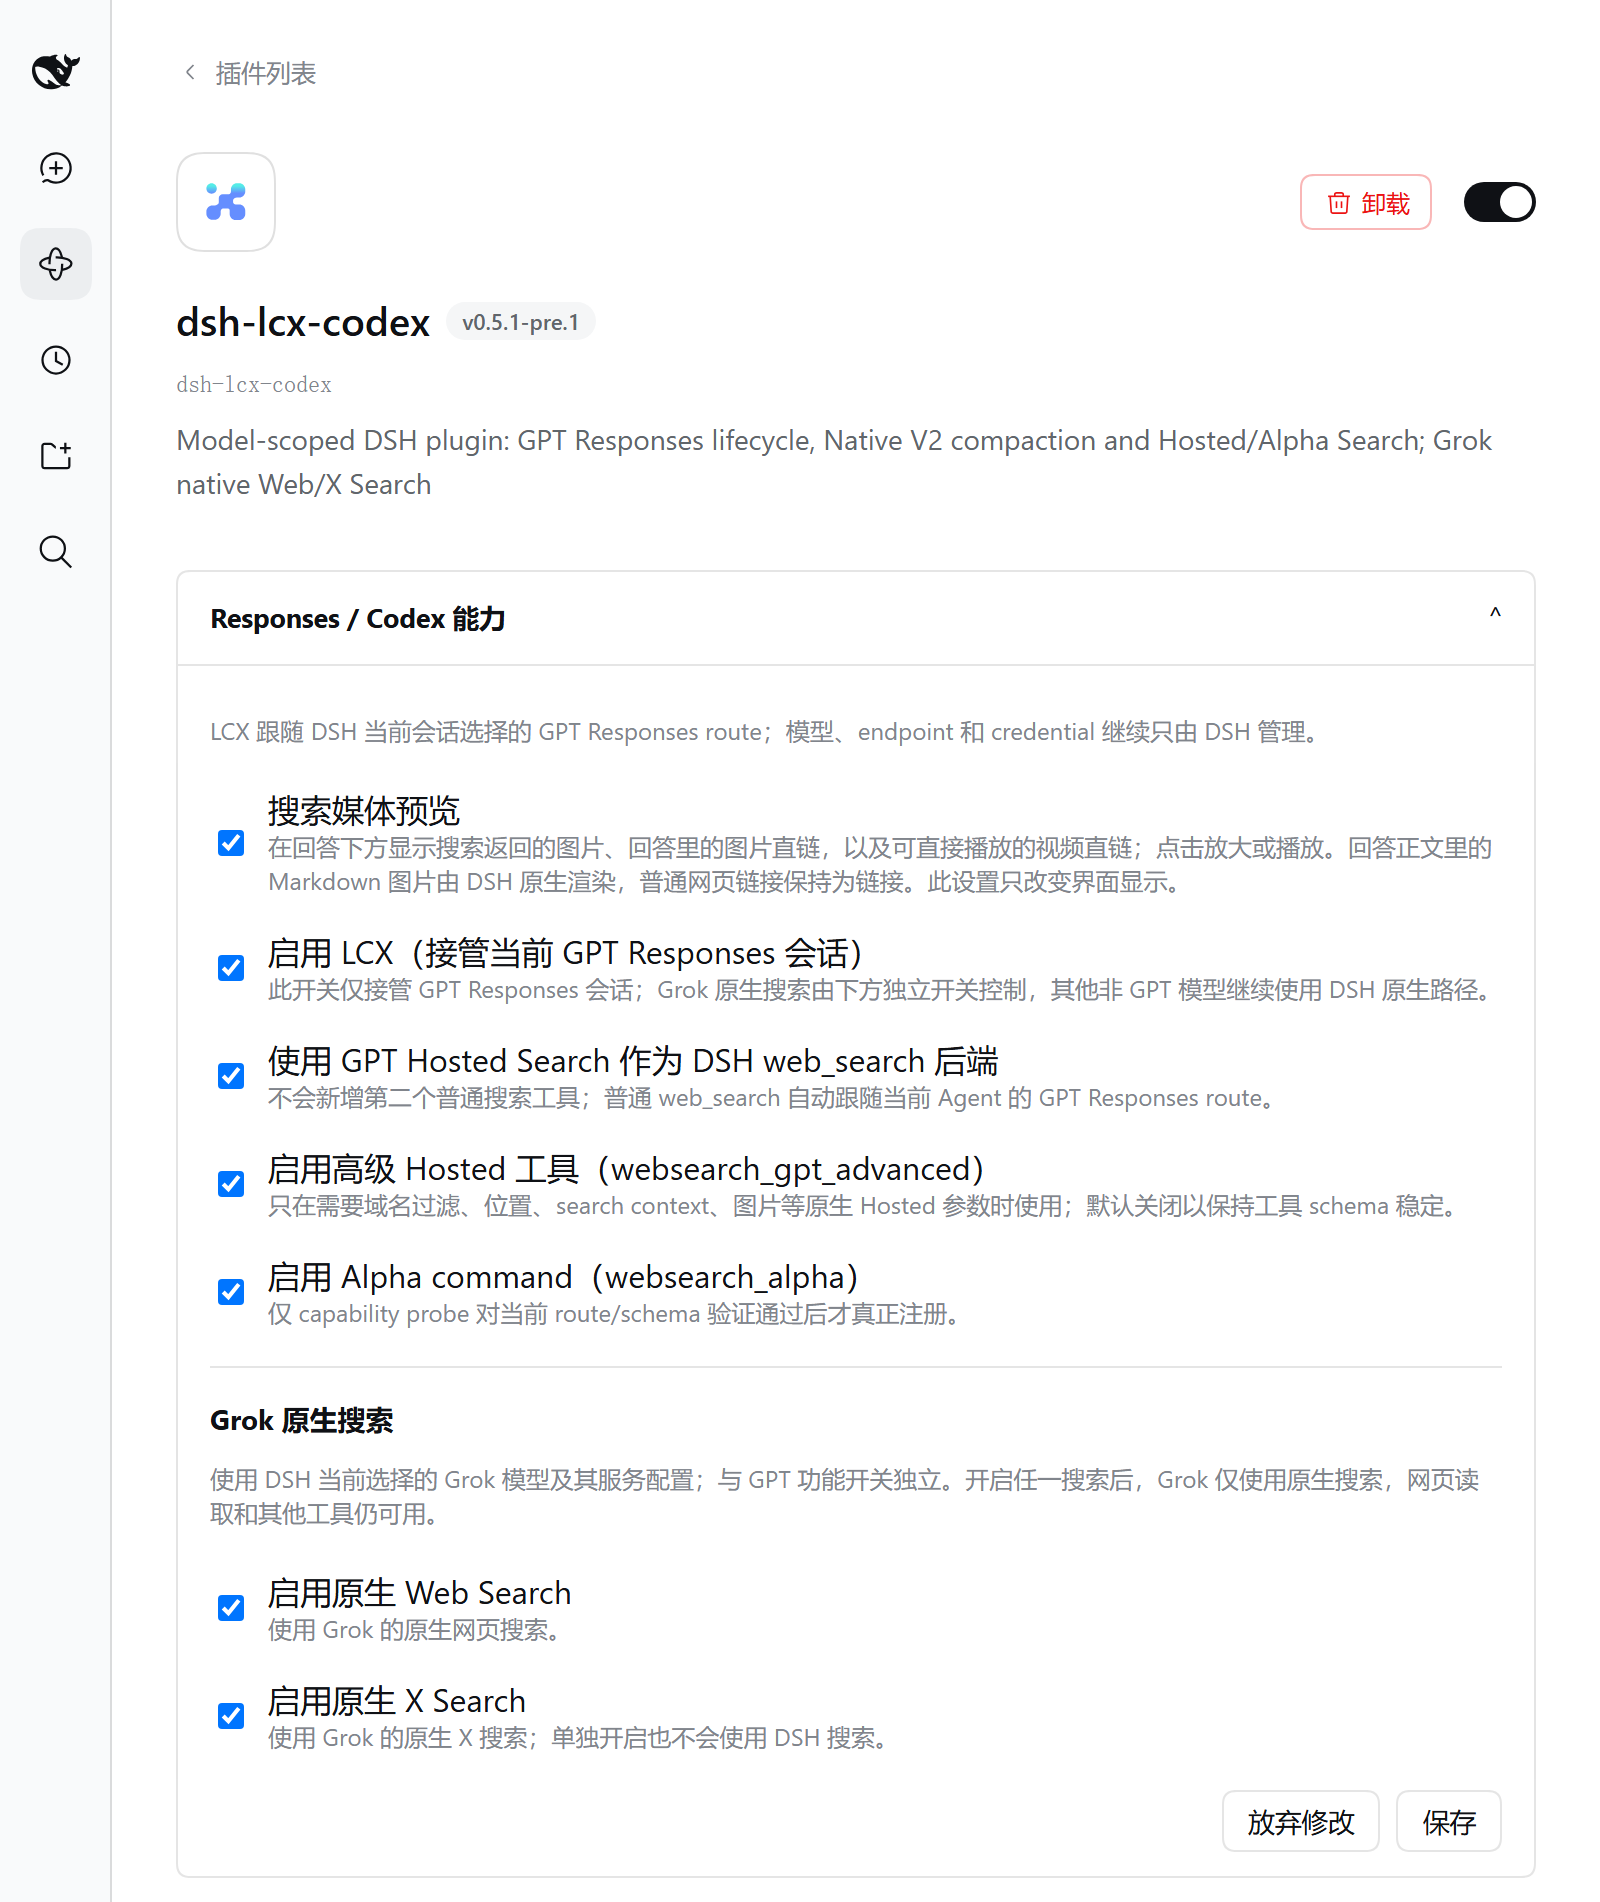
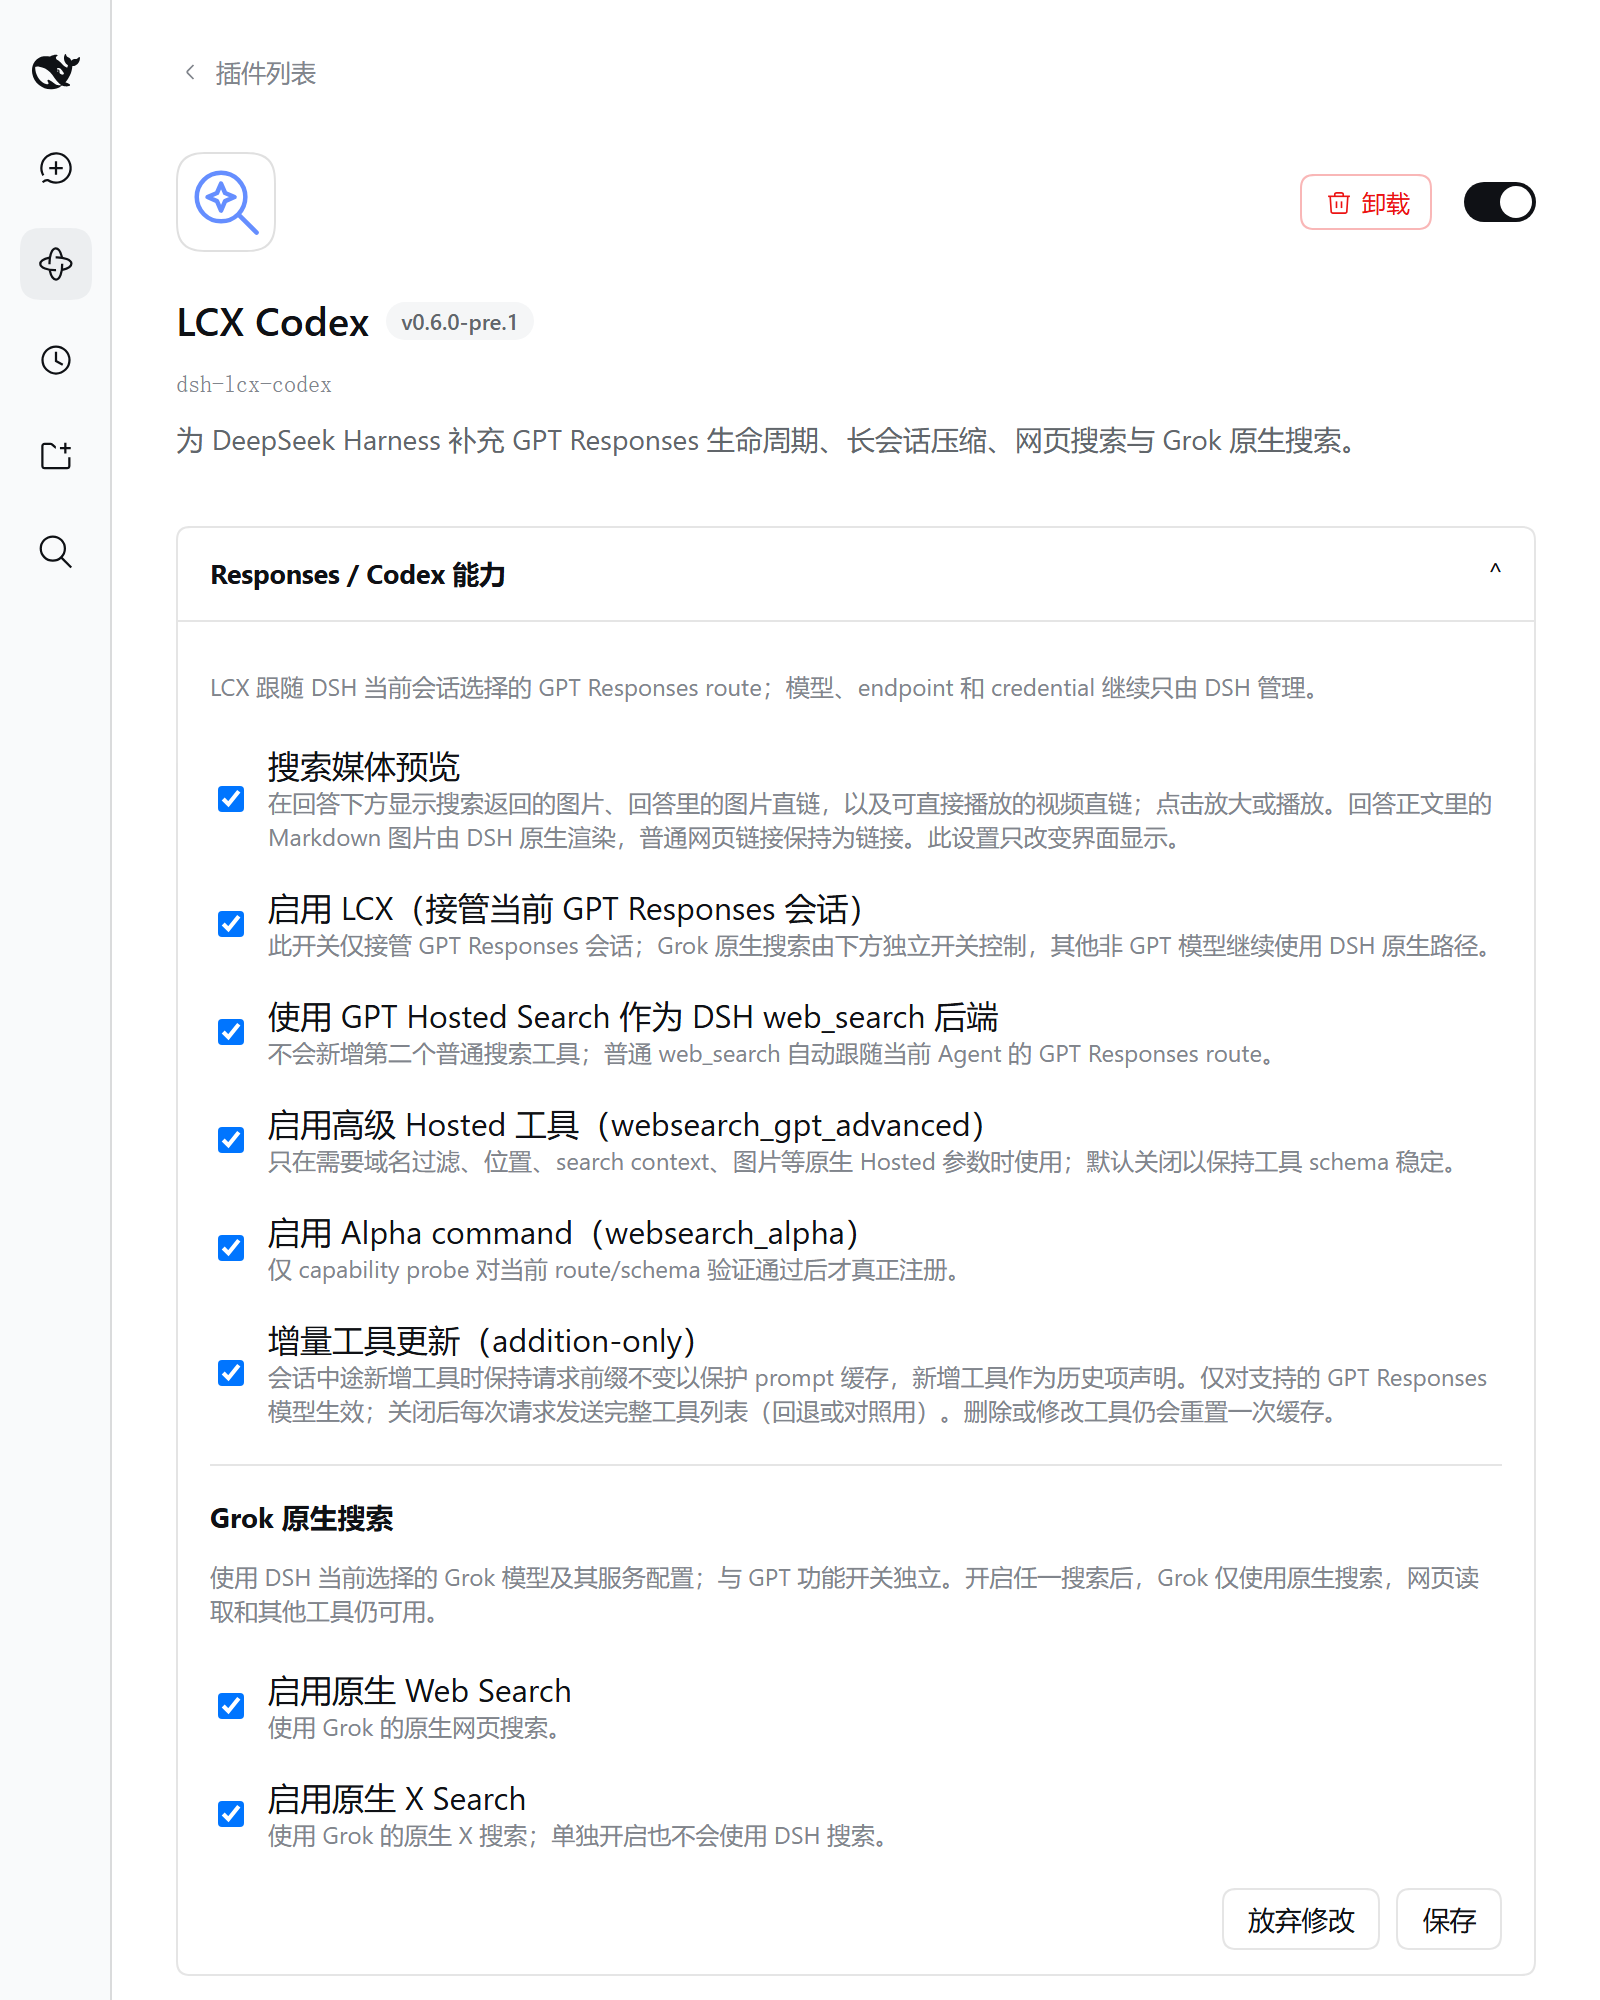
Refresh settings-card screenshot and file counts for 0.6.0-pre.1

diff --git a/CHANGELOG.md b/CHANGELOG.md
@@ -8,7 +8,7 @@ Prerelease for DSH `0.2.1` and later. Same DSH baseline as `0.5.1-pre.1` (exact 
 - Removing a tool or redefining one under the same name follows the host semantics and is never an error: a removal shrinks the anchored list once and a redefinition starts a new declaration series (the complete current list), each costing one cache reset, after which the surface is stable again. LCX adds a self check on top of the host projection and falls back to the previous full-tool-list request when the DSH tool history is missing, the model information is unreadable, the route is not addition-only or in-history, the route compat explicitly opts out of `additional_tools` and `tool_search`, or deferred tools and retained additions disagree. A route compat that says nothing is accepted, because DSH declares addition-only only for models that support the declaration items; this matters for models outside LCX's frozen Pi 0.86 catalog such as `gpt-6-sol`, where the first live A/B showed the full list being sent. A fallback although the host declared addition-only is logged once per session with a fixed reason. Custom-named routes (which DSH never declares addition-only), Grok routes, portable replay (fork and route migration) and native compaction checkpoints keep their previous handling; compaction requests may carry `additional_tools` and the checkpoint retains none, so the new series starts from the full list.
 - New settings-card switch "Incremental tool updates (addition-only)" (`incrementalToolUpdates`, on by default, also for settings documents that predate it). Turning it off sends the complete current tool list on every request, as in `0.5.1-pre.1`; use it to roll back or to compare cache behaviour. The wire shapes and the cache comparison are reproducible with `npm run probe:tool-updates` (opt-in, spends real requests, never part of CI; `--dry-run` prints the shapes without a key).
 - Count and show searches made from code: DSH 0.2.1 records a tool a `run_code` program (programmatic tool calling) calls as `tool/ptc-dispatch` carrying the nested tool's `name` and presentation `meta`, never as `tool/result`. LCX only read `tool/result`, so a `web_search` / `websearch_gpt_advanced` call made from inside `run_code` was not counted: its Hosted usage never reached the session search usage (`lcxSearchUsage` projection) or the per-turn usage pill, and its images never reached the search-media rail. All three now read the nested settlement as well. A nested call names its own tool, so it needs no pending entry; the settlement carries no turn, so the Client resolves it through the root `run_code` call it names. Usage is counted once per settled call (including a nested search that failed after it was billed), only for LCX's own search tools, and the projection state stays plain JSON. Media from nested searches joins the turn's single media block, ahead of direct links from the answer text, with the same ordering and placement as a model-direct search. Verified with DSH's real tool registry, `run_code` transport, nested dispatch scheduler, Agent loop, usage projection and Conversation assembler; the script runtime behind `ptcRuntime` is an in-process stand-in in tests.
-- Give the Plugin Manager card LCX's own title, description and icon: DSH 0.2.1 reads a plugin's display metadata without activating it, from the package's `locale/<language>.json` files (`meta.title` / `meta.description`) and the manifest `icon`. LCX now ships `locale/en.json`, `locale/zh.json` and a small line-style `icon.svg` (the same style and size as DSH's own plugin icons) and declares them in `package.json` (`icon`, the `./locale/*.json` export, and the `files` allowlist), so the card shows "LCX Codex", a localized one-line description and the icon instead of the technical package name. The published file list grows from 35 to 38 files; nothing else is added. Verified with DSH's own `readPluginMeta` on the exact file set `npm pack` publishes.
+- Give the Plugin Manager card LCX's own title, description and icon: DSH 0.2.1 reads a plugin's display metadata without activating it, from the package's `locale/<language>.json` files (`meta.title` / `meta.description`) and the manifest `icon`. LCX now ships `locale/en.json`, `locale/zh.json` and a small line-style `icon.svg` (the same style and size as DSH's own plugin icons) and declares them in `package.json` (`icon`, the `./locale/*.json` export, and the `files` allowlist), so the card shows "LCX Codex", a localized one-line description and the icon instead of the technical package name. The published file list grows from 35 to 39 files: the Plugin Manager metadata adds `icon.svg`, `locale/en.json` and `locale/zh.json`, and incremental tool updates add `lib/tool-surface.js`; nothing else is added. Verified with DSH's own `readPluginMeta` on the exact file set `npm pack` publishes.
 
 - Fix the session projection cache never persisting: LCX's `lcxSearchUsage` projection wrote optional fields (`headerKey`, `contextDetails`, `contextProvenance`, `sampleHeaderKey`) as explicit `undefined`, which DSH's plain-JSON checkpoint check rejects, so after the first model reply every turn logged `projection checkpoint is not losslessly JSON-serializable` and no checkpoint was ever saved. Reopening a long session therefore replayed its whole log instead of resuming from the cached checkpoint. Absent fields are now omitted (and a stale provider-context sample is removed when a later reply carries none); usage numbers, pressure measurement and the UI are unchanged, and the projection state version stays at 3. Verified with the real DSH registry and `dsh-session-projection-cache` (write, read back, cold restore).
 - Fix transient provider failures that arrive inside a streaming response ending the turn: when a gateway answers HTTP 200 and then reports `response.failed`, an `error` event, `response.incomplete`, or a terminal response with status `failed`, LCX classified it as the generic `RESPONSES_ERROR`, which DSH never retries, so a momentary `server_error` / `server_is_overloaded` / `bad_response_status_code` (or a failure with no error object) stopped the turn. The structured `error.code` / `error.type` (and the incomplete reason) are now mapped to DSH's taxonomy: server-side codes become `SERVER`, `rate_limit_exceeded` becomes `RATE_LIMIT`, `insufficient_quota` becomes `INSUFFICIENT_QUOTA`, `context_length_exceeded` becomes `CONTEXT_WINDOW_EXCEEDED`, `invalid_prompt` / `content_filter` / an incomplete `content_filter` become `INVALID_REQUEST` (not retried). DSH discards the partial output of a failed attempt and re-runs the step for the retryable classes. Provider message bodies still never leave the wire boundary. Both the GPT and Grok native streams now write one redacted `warn` line per failed request (`route`, LCX code, HTTP status, request id, provider `code`/`type`, whether output had already streamed); DSH 0.2.1-alpha.2 does not persist plugin logger output on its own.

diff --git a/ARCHITECTURE.md b/ARCHITECTURE.md
@@ -9,7 +9,7 @@ This prerelease targets the DSH 0.2.1 contract. Its verified baseline is exactly
 - **Pi 0.87.1 public exports** supply canonical Responses serialization/stream helpers and model data. A reproducible build bundles the needed runtime subset; the plugin does not ship the complete Pi SDK dependency tree into user profiles or replace host Pi.
 - **The browser client** supplies settings, search-media presentation and auxiliary usage presentation. Presentation controls do not change model requests, tools, history, usage or cache semantics.
 
-`src/**` is strict TypeScript source. `lib/**` contains 60 reproducible generated files; the npm allowlist yields a 38-file package with selected declarations, host/client JavaScript, the plugin patch, license/notices, package metadata, README, the Plugin Manager icon and the two locale files. Tests, test fixtures and build scripts remain repository-only. No DSH Core patch or private control-plane material is included. Third-party licensing is in [THIRD_PARTY_NOTICES.md](THIRD_PARTY_NOTICES.md).
+`src/**` is strict TypeScript source. `lib/**` contains 60 reproducible generated files; the npm allowlist yields a 39-file package with selected declarations, host/client JavaScript, the plugin patch, license/notices, package metadata, README, the Plugin Manager icon and the two locale files. Tests, test fixtures and build scripts remain repository-only. No DSH Core patch or private control-plane material is included. Third-party licensing is in [THIRD_PARTY_NOTICES.md](THIRD_PARTY_NOTICES.md).
 
 ## GPT lifecycle and compaction
 
